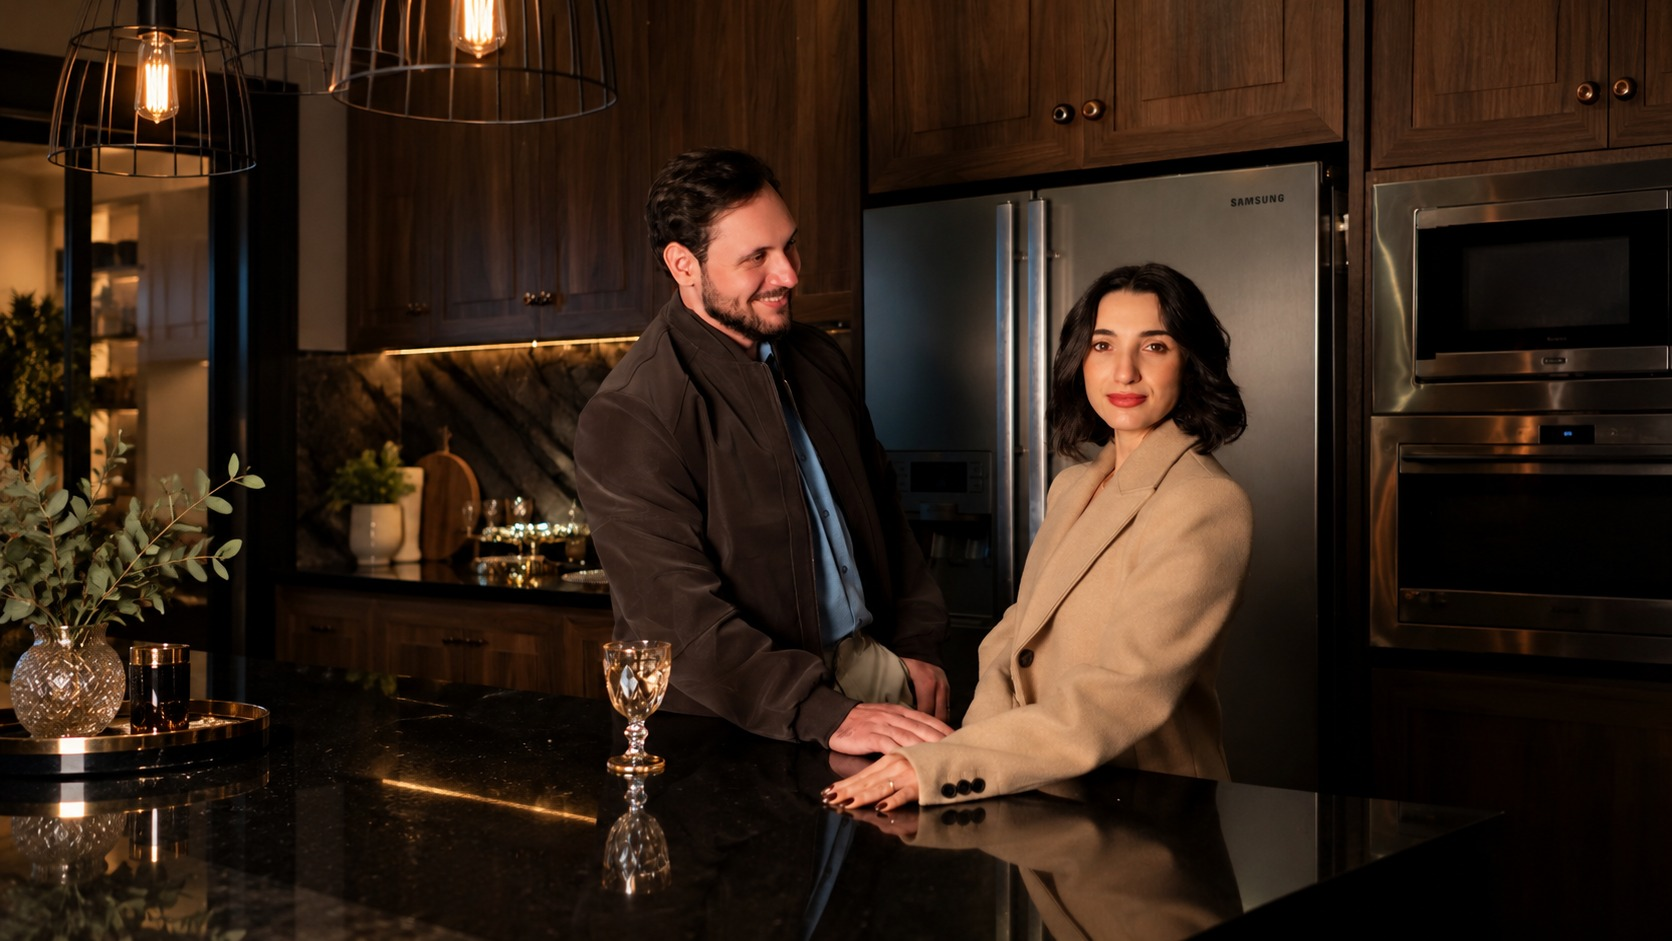
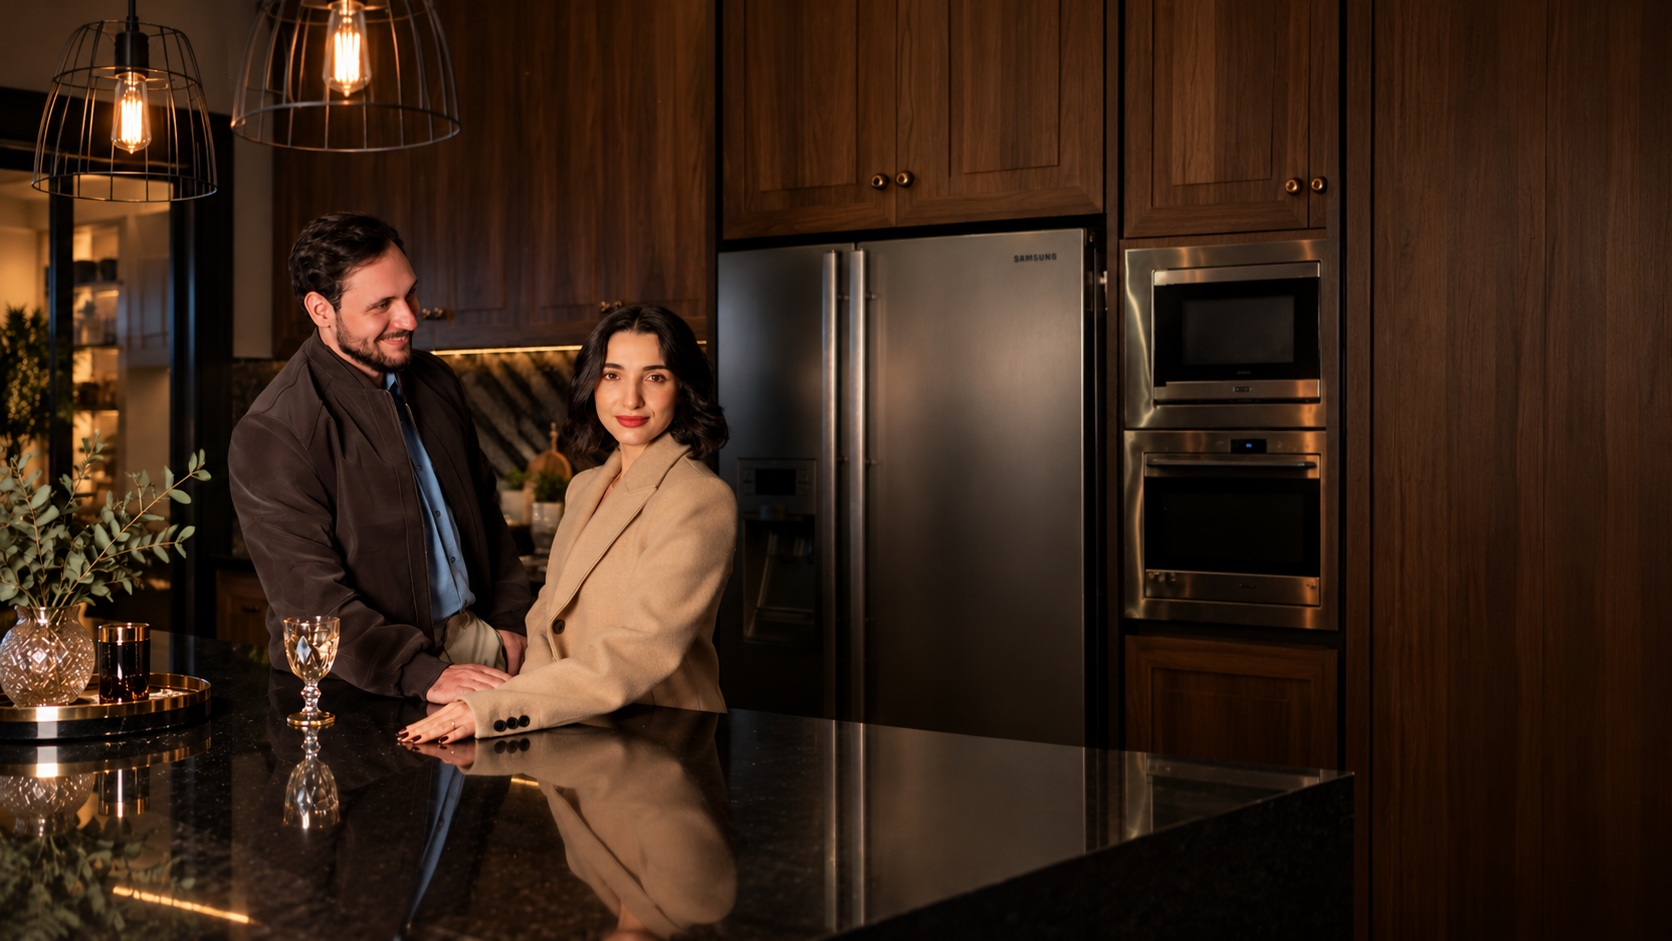
Add files via upload

diff --git a/index.html b/index.html
@@ -1,4 +1,4 @@
-<!doctype html><html lang="pt-BR"><head><meta charset="utf-8"><meta name="viewport" content="width=device-width,initial-scale=1"><meta name="theme-color" content="#111113"><link rel="stylesheet" href="/styles.css"><link rel="icon" href="/favicon.svg" type="image/svg+xml"><title>Rafael Zaccari | Empresário e fundador do ecossistema Ozare</title><meta name="description" content="Rafael Zaccari, fundador do ecossistema Ozare. Faturei R$600 mil e estava no prejuízo. Hoje ajudo empresários a estruturar negócios que não dependem de cada decisão do dono."><meta property="og:title" content="Rafael Zaccari — Empresa não se improvisa. Empresa se constrói."><meta property="og:description" content="Empresário e fundador do ecossistema Ozare."><meta property="og:image" content="https://rafaelzaccari.vercel.app/hero.jpg"></head><body>
+<!doctype html><html lang="pt-BR"><head><meta charset="utf-8"><meta name="viewport" content="width=device-width,initial-scale=1"><meta name="theme-color" content="#111113"><link rel="stylesheet" href="/styles.css?v=dafni-final-2"><link rel="icon" href="/favicon.svg" type="image/svg+xml"><title>Rafael Zaccari | Empresário e fundador do ecossistema Ozare</title><meta name="description" content="Rafael Zaccari, fundador do ecossistema Ozare. Faturei R$600 mil e estava no prejuízo. Hoje ajudo empresários a estruturar negócios que não dependem de cada decisão do dono."><meta property="og:title" content="Rafael Zaccari — Empresa não se improvisa. Empresa se constrói."><meta property="og:description" content="Empresário e fundador do ecossistema Ozare."><meta property="og:image" content="https://rafaelzaccari.vercel.app/hero.jpg"></head><body>
 <a class="skip" href="#principal">Pular para conteúdo</a>
 <header class="site-header"><div class="header-inner"><a class="wordmark" href="/#inicio">Rafael Zaccari<span class="gold-dot">.</span></a><nav class="desktop-nav" aria-label="Menu principal"><a href="/#historia">A história</a><a href="/#defendo">O que eu defendo</a><a href="/#ecossistema">Ecossistema Ozare</a><a href="/#palestras">Palestras</a></nav><a class="button button-small header-cta" href="/#negocio">Quero estruturar minha empresa <span aria-hidden="true">↗</span></a><button class="menu-toggle" aria-label="Abrir menu" aria-expanded="false" aria-controls="mobile-menu"><span></span><span></span></button></div><nav id="mobile-menu" class="mobile-nav" aria-label="Menu móvel" hidden><a href="/#historia">A história</a><a href="/#defendo">O que eu defendo</a><a href="/#ecossistema">Ecossistema Ozare</a><a href="/#palestras">Palestras</a></nav></header>
 <main id="principal">

diff --git a/styles.css b/styles.css
@@ -35,3 +35,11 @@ body{background:var(--paper)}.site-header{background:rgba(248,248,247,.96);borde
 .duo-photo{background-image:linear-gradient(0deg,#050505 0%,rgba(0,0,0,.96) 13%,rgba(0,0,0,.02) 60%),url('/dafni-wide.jpg')!important;background-size:100% 100%,auto 70%!important;background-position:center,center top!important;background-repeat:no-repeat!important}
 .talk::before{background:linear-gradient(0deg,rgba(3,5,10,.94),rgba(3,5,10,.7)),url('/palestras.jpg') 62% center/cover no-repeat}
 }
+
+
+/* Dafni: fotografia integralmente visível, texto em painel separado */
+.duo{display:grid!important;grid-template-columns:minmax(0, 1.4fr) minmax(370px, 1fr)!important;min-height:650px!important;background:#080808!important;color:#fff!important;align-items:stretch!important;isolation:auto!important;position:relative!important}
+.duo-photo{position:relative!important;inset:auto!important;z-index:auto!important;min-height:650px!important;background-image:url('/dafni-wide.jpg')!important;background-size:cover!important;background-position:39% center!important;background-repeat:no-repeat!important}
+.duo-content{margin:0!important;max-width:none!important;align-self:center!important;padding:75px clamp(30px,5vw,100px)!important;background:#080808!important;position:relative!important;z-index:1!important}
+@media(max-width:900px){.duo{grid-template-columns:1fr!important;display:grid!important;min-height:0!important}.duo-photo{min-height:0!important;height:auto!important;aspect-ratio:16/9!important;background-position:center center!important;background-size:cover!important}.duo-content{padding:55px 28px 70px!important}}
+@media(max-width:520px){.duo-photo{aspect-ratio:1.35!important;background-position:43% center!important}.duo-content{padding:45px 22px 65px!important}}
